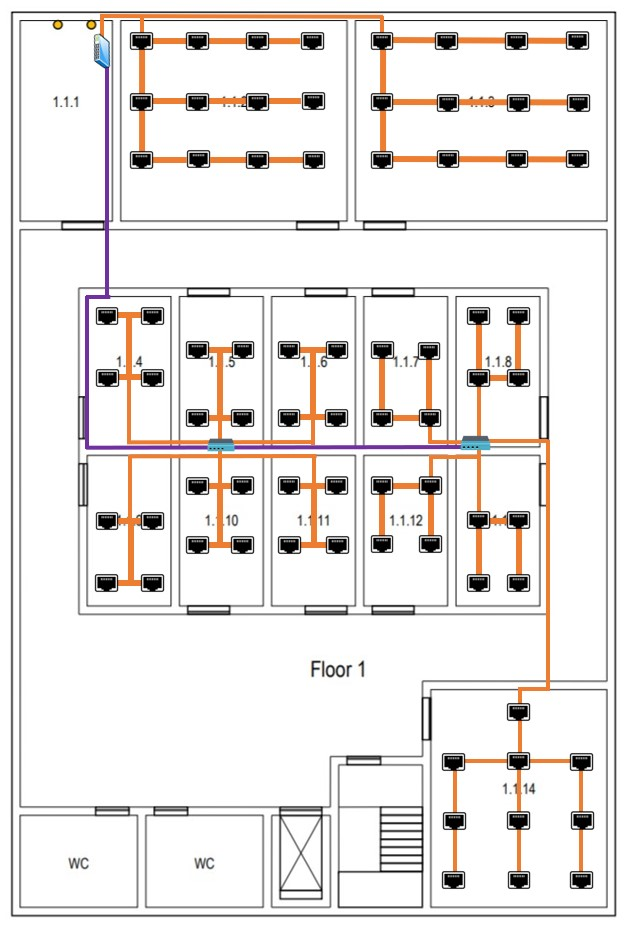
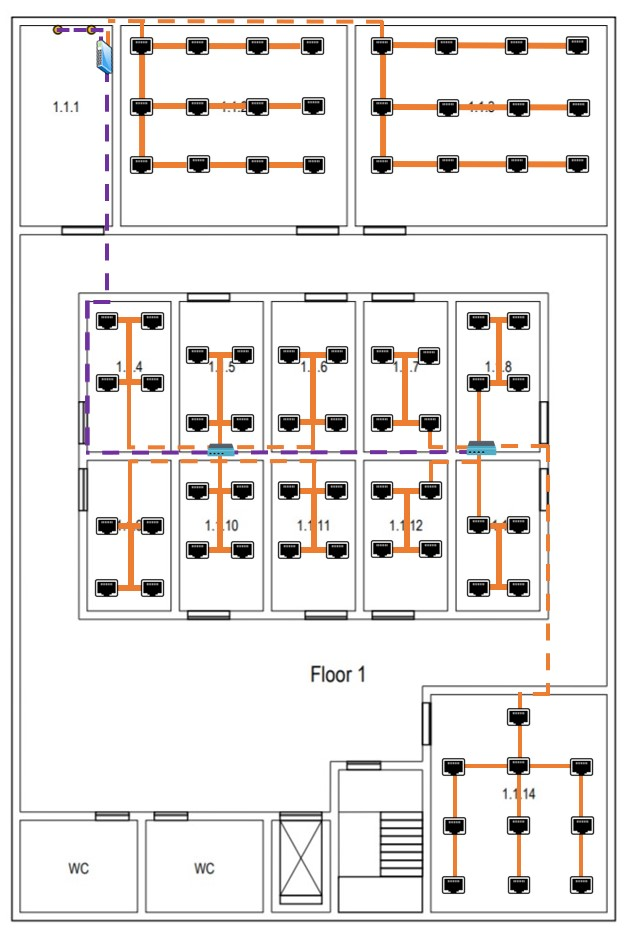
Distribuição dos caminhos de cabos do edifício 1 para o piso 0

Changed region(s): [[0.0304, 0.0, 1.0, 0.9968], [0.4864, 0.6947, 0.5776, 0.7551], [0.0912, 0.0906, 0.1216, 0.1208]]

diff --git a/doc/sprint1/1201386/README.md b/doc/sprint1/1201386/README.md
@@ -6,6 +6,8 @@ RCOMP 2021-2022 Project - Sprint 1 - Member 1201386 Folder
 ### Outlets
 - Mínimo de 2 outlets por área de trabalho.
 - Proporção de 2 outlets para cada 10 metros quadrados de área.
+- Na distribuição dos outlets procurou-se obter as soluções que menos obstruíssem os quartos, tendo 
+em atenção o posicionamento destes fora da zona com portas.
 
 ###  Horizontal cross-connect
 - Por cada 1000 metros quadrados de área tem de existir 1 HC.
@@ -27,7 +29,7 @@ RCOMP 2021-2022 Project - Sprint 1 - Member 1201386 Folder
 | Room  |	Comprimento (m) |	Largura (m)	 | Área (m2)  |Quantidade de outlets |
 |-------|-------------------|----------------|------------|----------------------|
 |1.0.1  |6,6667          	|3,0556     	 |20,3708	  |	6	            	 |
-|1.0.2  |6,6667          	|4,4444     	 |29,6295	  |	6	           	     |
+|1.0.2  |6,6667          	|4,4444     	 |29,6295	  |	0	           	     |
 |1.0.3  |6,6667          	|4,4444     	 |29,6295	  |	6	            	 |
 |1.0.4  |6,6667          	|6,6667     	 |44,4449	  |	10	            	 |
 |1.0.5  |5              	|3,0556     	 |15,278	  |	4	            	 |
@@ -51,11 +53,13 @@ RCOMP 2021-2022 Project - Sprint 1 - Member 1201386 Folder
 
 ### Disposição dos Caminhos de Cabos:
 
+![1201386](1201386_Building1_Floor0_Cabos.jpg)
+
 ### Inventário Total Piso 0:
 
 | Equipamento |	Quantidade |
 |-------------|------------|
-|Outlets	  |	62		   |
+|Outlets	  |	56		   |
 
 ## Edifico 1 - Piso 1 
 
@@ -84,14 +88,6 @@ RCOMP 2021-2022 Project - Sprint 1 - Member 1201386 Folder
 |1.1.13 |5               	|2,7778     	 |13,889	  |	4	            	 |
 |1.1.14 |7,2222          	|5,9259     	 |42,798	  |	10	            	 |
 
-### Justificações Relevantes:
-
-- A sala 1.1.1 é uma área de armazenamento e não são necessárias tomadas de rede lá, 
-  e o mesmo aplica-se às casas de banho e a áreas comuns como corredores e átrios.
-
-- Este piso apresenta apenas um HC, pois este tem uma cobertura de cerca de 1000 metros
-  quadrados e o edifício apresenta apenas 600 metros quadrados de área.
-
 ### Disposição dos Outlets:
 
 ![1201386](1201386_Building1_Floor1_Outlets.jpg)
@@ -99,6 +95,30 @@ RCOMP 2021-2022 Project - Sprint 1 - Member 1201386 Folder
 ### Disposição dos Caminhos de Cabos:
 
 ![1201386](1201386_Building1_Floor1_Cabos.jpg)
+
+### Justificações Relevantes:
+
+- A sala 1.1.1 é uma área de armazenamento e não são necessárias tomadas de rede lá,
+  e o mesmo aplica-se às casas de banho e a áreas comuns como corredores e átrios.
+
+- Do piso anterior, através de uma calha técnica, 2 cabos de fibra ótica emergem 
+  provinientes do IC.
+  
+####  Horizontal cross-connect
+
+- Este piso apresenta apenas um HC, pois este tem uma cobertura de cerca de 1000 metros
+  quadrados e o edifício apresenta apenas 600 metros quadrados de área.
+
+- O HC está localizado na sala 1.1.1 num armário técnico, visto o cliente ter dado a indicação que esta sala
+  podia ser usada para abrigar uma cross-connect por ser uma área de armazenamento.
+
+- O HC é responsável pelas salas 1.1.2 e 1.1.3.
+
+#### Consolidation Points
+
+- 
+
+
 
 ### Inventário Total Piso 1:
 
